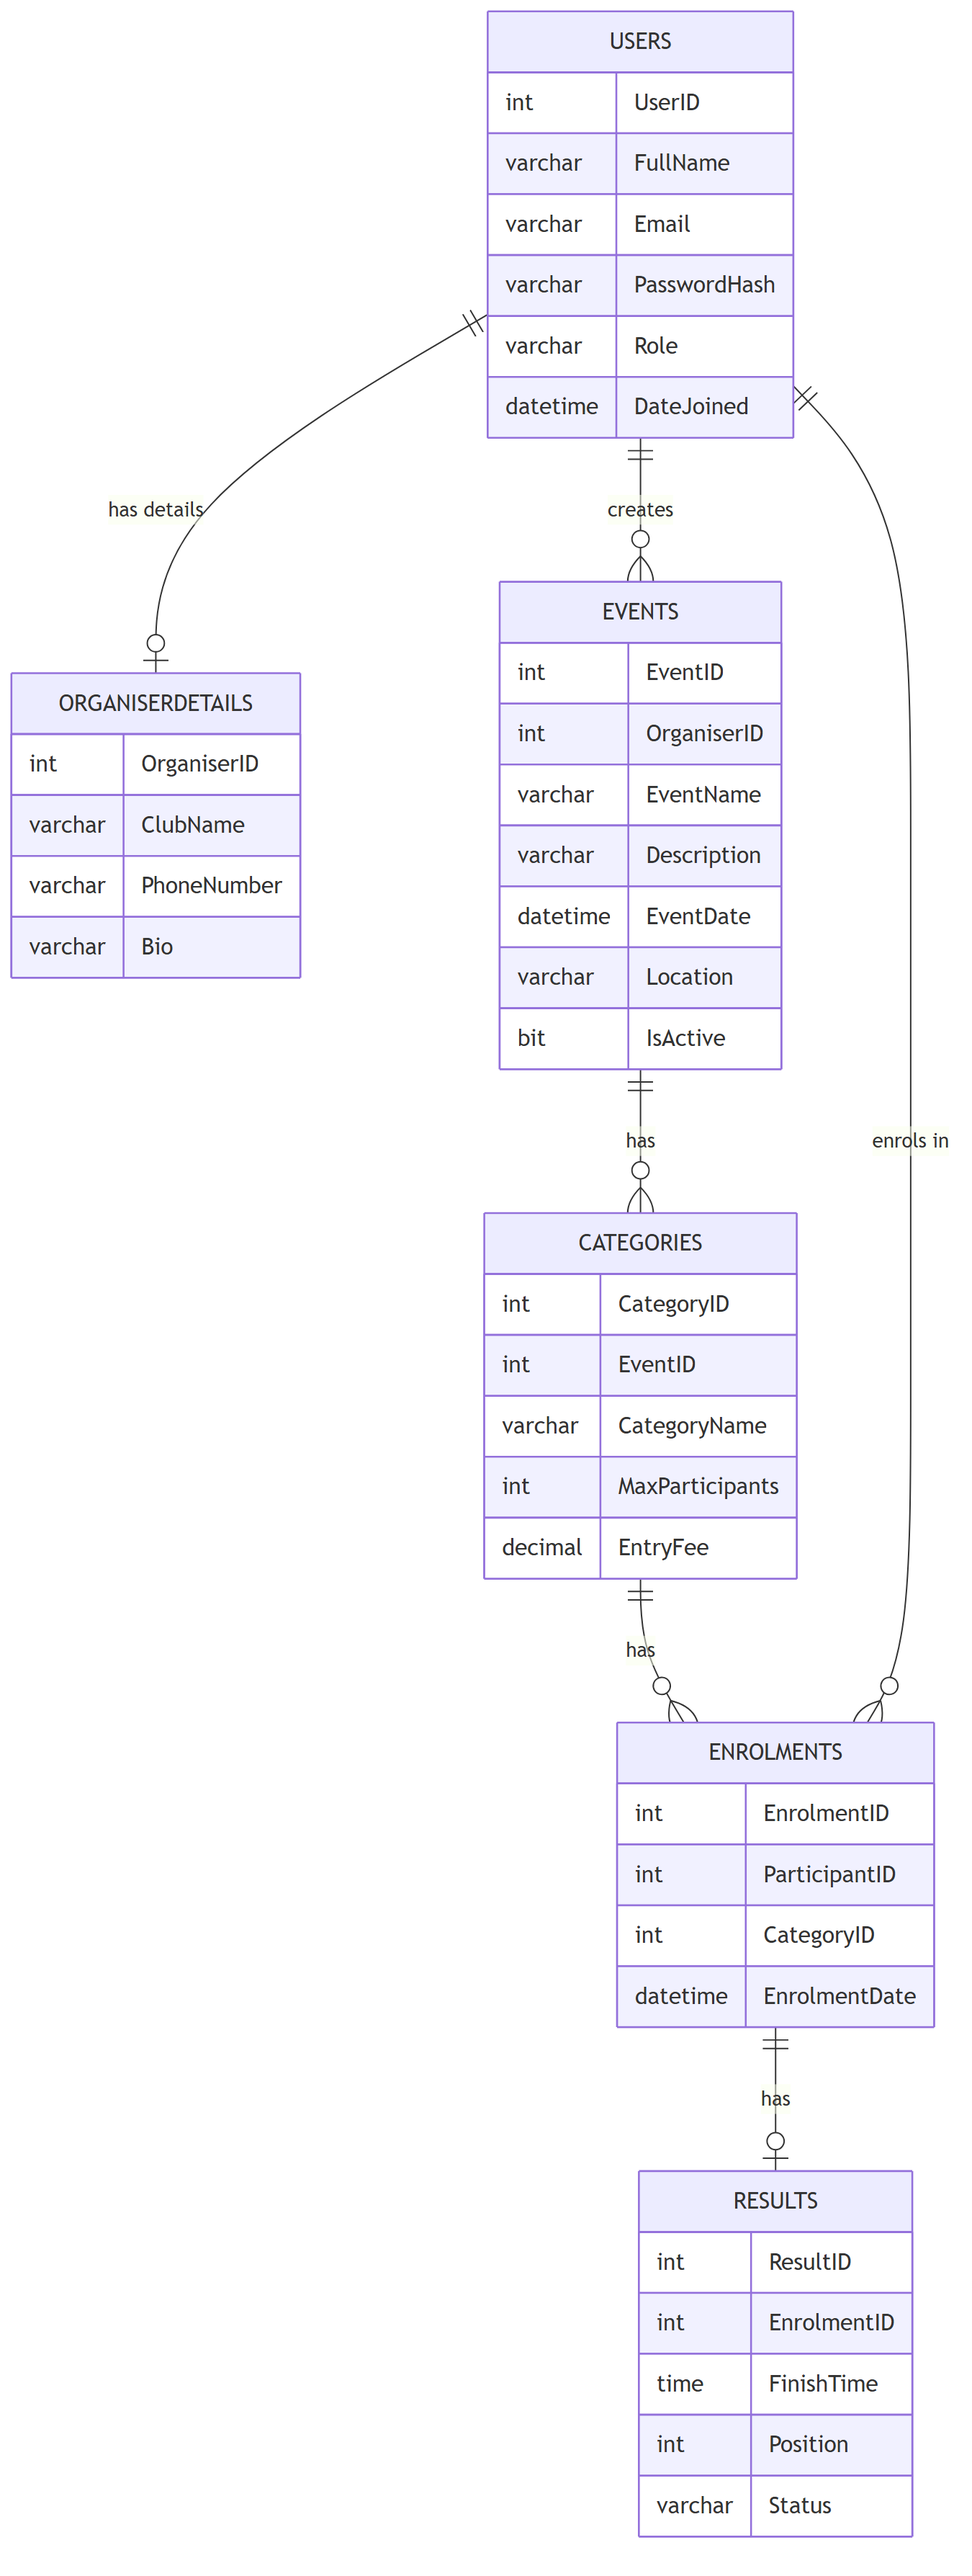
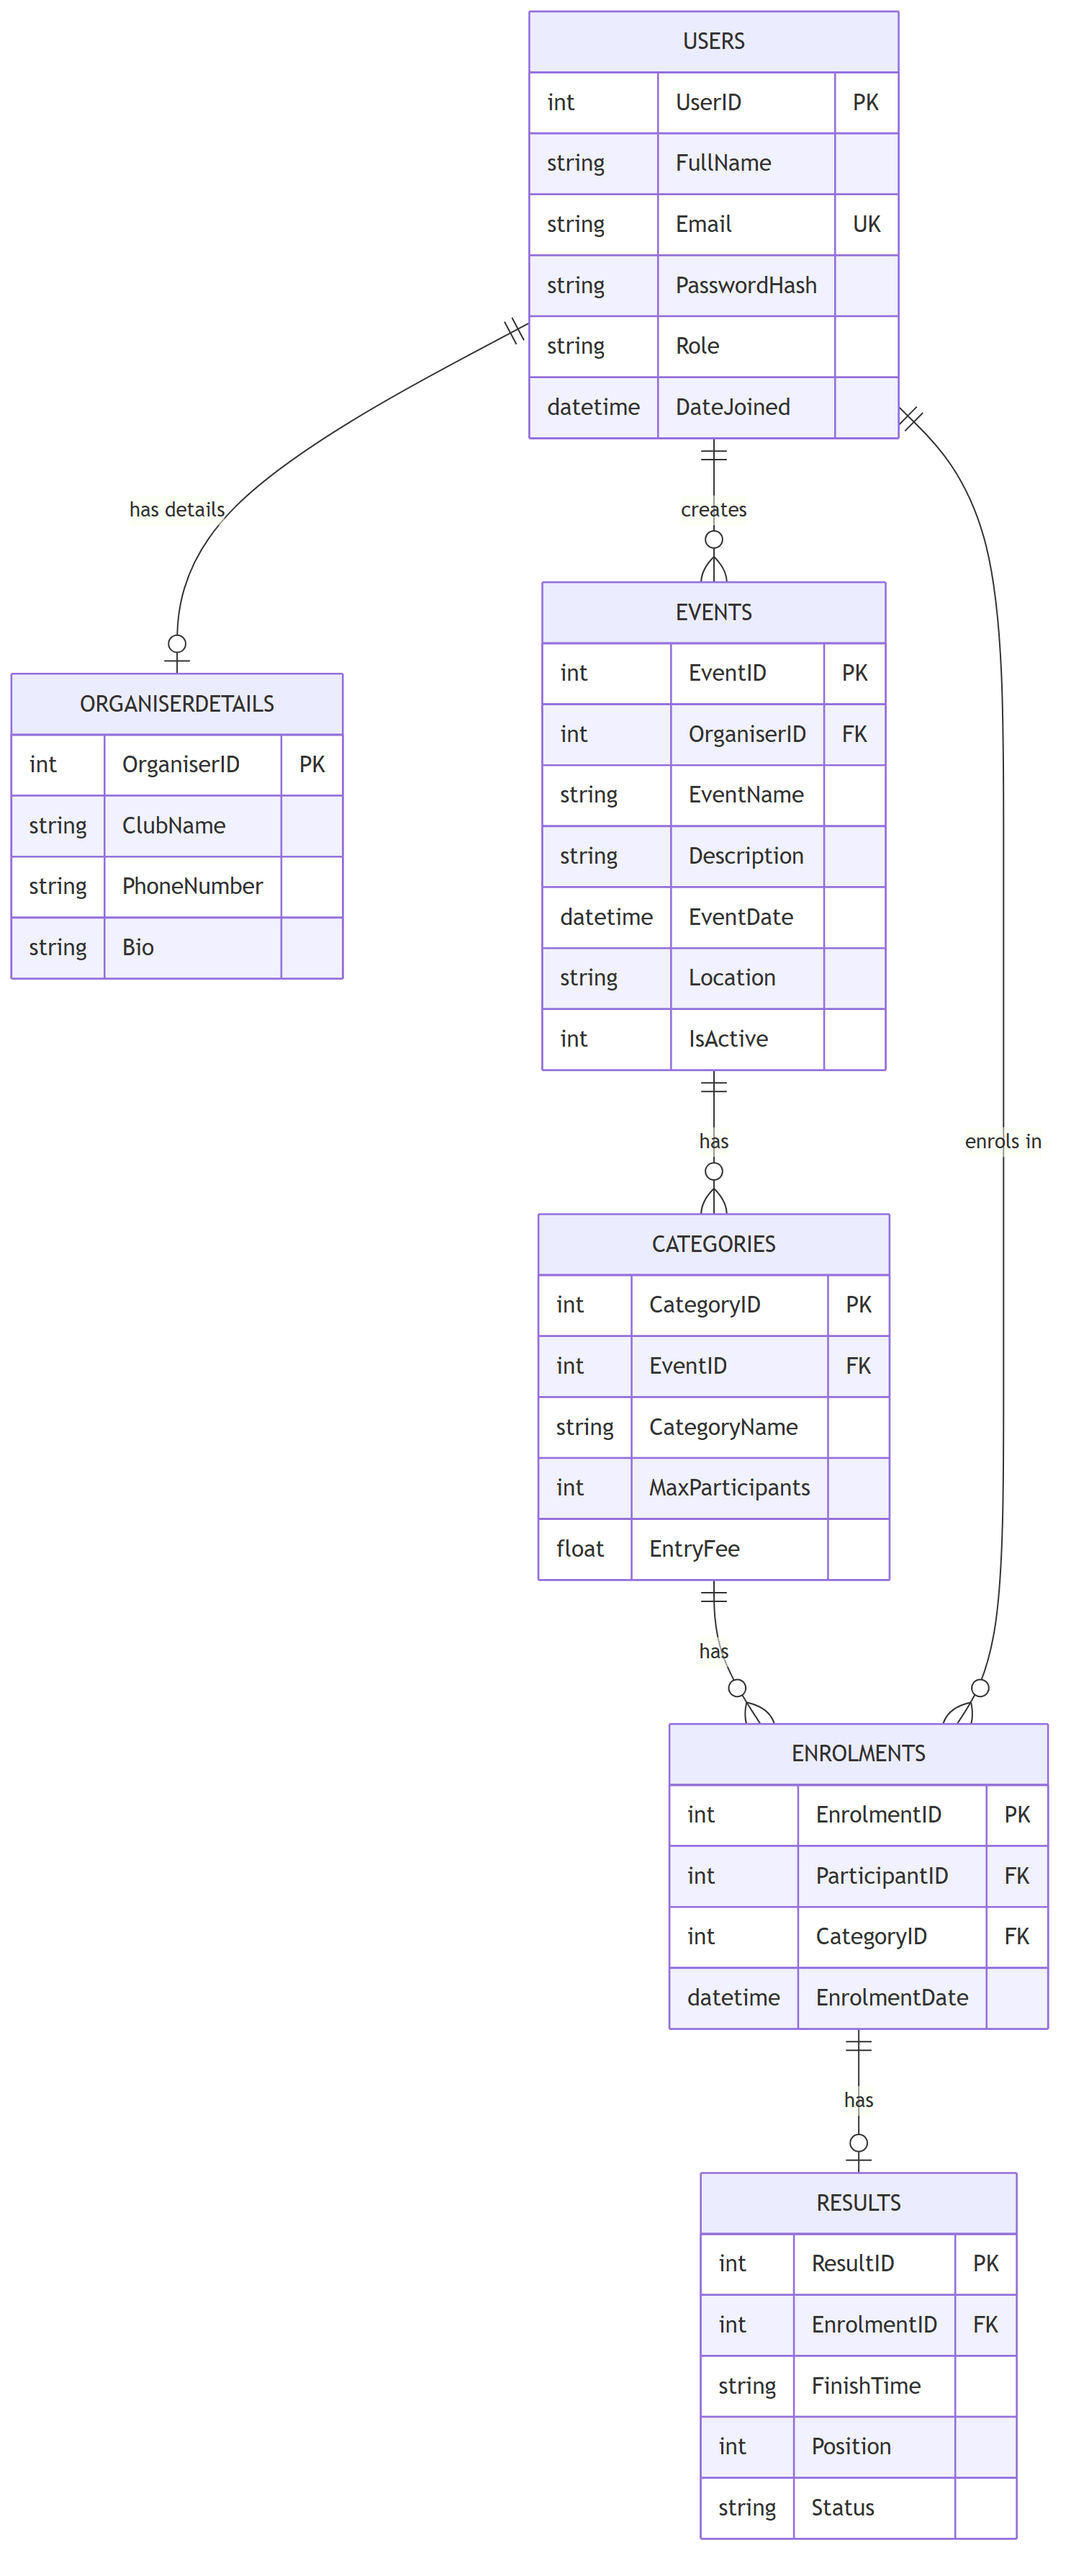
Fix ERD PK-FK labels, fix SQL text bug, add references to all docs

diff --git a/generate-docx.js b/generate-docx.js
@@ -200,7 +200,25 @@ const doc = new Document({
                 spacing: { after: 200 },
                 children: [new TextRun("- Error responses include a message that explains what went wrong so the front-end can show it to the user.")]
             }),
-            
+
+            // References section
+            new Paragraph({
+                heading: HeadingLevel.HEADING_2,
+                children: [new TextRun("References")]
+            }),
+            new Paragraph({
+                spacing: { after: 120 },
+                children: [new TextRun("Microsoft (2026) ASP.NET Core web API documentation. Available at: https://learn.microsoft.com/en-us/aspnet/core/web-api/")]
+            }),
+            new Paragraph({
+                spacing: { after: 120 },
+                children: [new TextRun("Microsoft (2026) JWT bearer authentication in ASP.NET Core. Available at: https://learn.microsoft.com/en-us/aspnet/core/security/authentication/")]
+            }),
+            new Paragraph({
+                spacing: { after: 200 },
+                children: [new TextRun("Fielding, R. (2000) Architectural Styles and the Design of Network-based Software Architectures. PhD thesis. University of California, Irvine.")]
+            }),
+
             // AI Disclosure
             new Paragraph({
                 spacing: { before: 400 },

diff --git a/docs/ERD.md b/docs/ERD.md
@@ -92,36 +92,36 @@ Copy the code below into a Mermaid renderer (like mermaid.live) to see the diagr
 erDiagram
     USERS {
         int UserID PK
-        varchar FullName
-        varchar Email UK
-        varchar PasswordHash
-        varchar Role
+        string FullName
+        string Email UK
+        string PasswordHash
+        string Role
         datetime DateJoined
     }
 
     ORGANISERDETAILS {
-        int OrganiserID PK, FK
-        varchar ClubName
-        varchar PhoneNumber
-        varchar Bio
+        int OrganiserID PK
+        string ClubName
+        string PhoneNumber
+        string Bio
     }
 
     EVENTS {
         int EventID PK
         int OrganiserID FK
-        varchar EventName
-        varchar Description
+        string EventName
+        string Description
         datetime EventDate
-        varchar Location
-        bit IsActive
+        string Location
+        int IsActive
     }
 
     CATEGORIES {
         int CategoryID PK
         int EventID FK
-        varchar CategoryName
+        string CategoryName
         int MaxParticipants
-        decimal EntryFee
+        float EntryFee
     }
 
     ENROLMENTS {
@@ -134,9 +134,9 @@ erDiagram
     RESULTS {
         int ResultID PK
         int EnrolmentID FK
-        time FinishTime
+        string FinishTime
         int Position
-        varchar Status
+        string Status
     }
 
     USERS ||--o| ORGANISERDETAILS : "has details"
@@ -146,6 +146,7 @@ erDiagram
     USERS ||--o{ ENROLMENTS : "enrols in"
     ENROLMENTS ||--o| RESULTS : "has"
 ```
+The same code is saved as ERD.mmd in this folder. It was rendered to ERD.png with mermaid-cli.
 
 ## Design Notes
 
@@ -167,6 +168,12 @@ To view or re-render it:
 3. Paste it into the editor
 4. The diagram will render automatically
 5. You can export it as a PNG or SVG image
+
+## References
+
+- Connolly, T. and Begg, C. (2015) *Database Systems: A Practical Approach to Design, Implementation, and Management*. 6th ed. Harlow: Pearson.
+- Microsoft (2026) CREATE TABLE (Transact-SQL). Available at: https://learn.microsoft.com/en-us/sql/t-sql/statements/create-table-transact-sql (Accessed: 22 September 2026).
+- Mermaid (2026) Entity Relationship Diagrams. Available at: https://mermaid.js.org/syntax/entityRelationshipDiagram.html (Accessed: 22 September 2026).
 
 ---
 

diff --git a/docs/API-Endpoint-Plan.md b/docs/API-Endpoint-Plan.md
@@ -86,6 +86,12 @@ The API has 19 endpoints across 6 categories:
 | Results | 3 |
 | **Total** | **19** |
 
+## References
+
+- Microsoft (2026) ASP.NET Core web API documentation. Available at: https://learn.microsoft.com/en-us/aspnet/core/web-api/ (Accessed: 22 September 2026).
+- Microsoft (2026) JWT bearer authentication in ASP.NET Core. Available at: https://learn.microsoft.com/en-us/aspnet/core/security/authentication/ (Accessed: 22 September 2026).
+- Fielding, R. (2000) *Architectural Styles and the Design of Network-based Software Architectures*. PhD thesis. University of California, Irvine.
+
 ---
 
 *Note: AI tools were used to assist with planning and drafting this document.*

diff --git a/README.md b/README.md
@@ -99,6 +99,12 @@ The video covers:
 - No AI-generated voices are allowed
 - Video link must be included in this README
 
+## References
+
+- Connolly, T. and Begg, C. (2015) *Database Systems*. 6th ed. Harlow: Pearson.
+- Microsoft (2026) ASP.NET Core web API documentation. Available at: https://learn.microsoft.com/en-us/aspnet/core/web-api/ (Accessed: 22 September 2026).
+- Mermaid (2026) Entity Relationship Diagrams. Available at: https://mermaid.js.org/syntax/entityRelationshipDiagram.html (Accessed: 22 September 2026).
+
 ## AI Disclosure
 
 AI tools were used to assist with planning and drafting documentation in this project.
